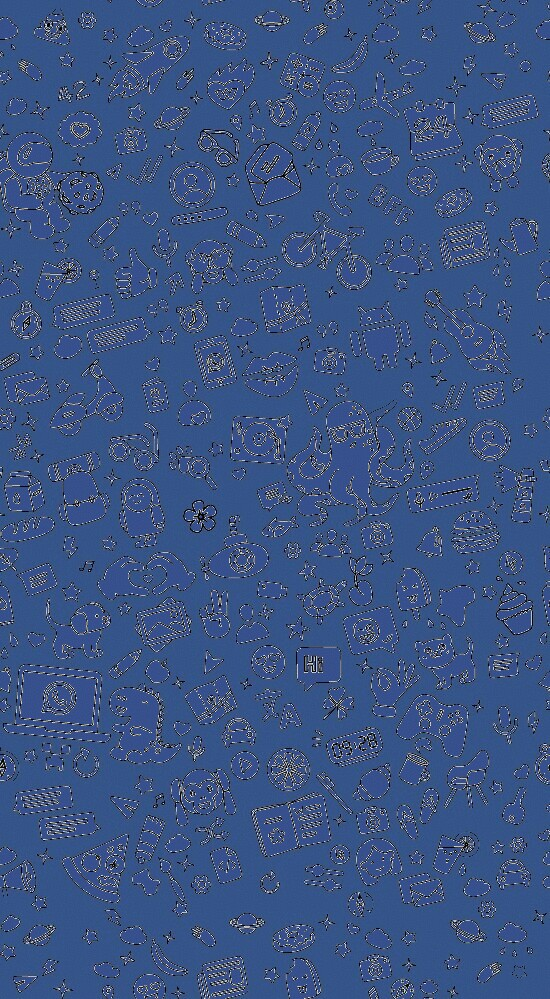
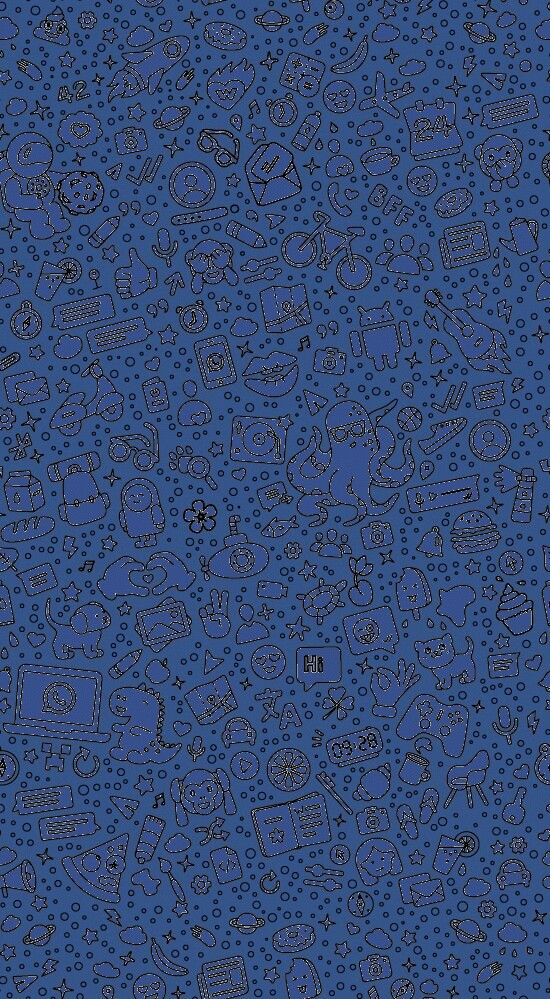
display images change

Changed region(s): [[0.0, 0.0, 1.0, 1.0], [0.9891, 0.0, 1.0, 0.031]]

diff --git a/server.js b/server.js
@@ -228,19 +228,12 @@ io.on('connection', function(socket) {
             const verifyUser = jwt.verify(token,process.env.SECRET_KEY);
             
             activeusers.forEach((element,index) => {
-                // console.log(roomdata)
                 if(verifyUser._id == element.id){
-                    activeusers.splice(index,1);
-                    user_sockets.splice(index,1);
+                    user_sockets[index] = socket
                     console.log(roomdata)
-                    roomdata[0].roomusers.forEach((elem,ind)=>{
-                        if(elem.id == verifyUser._id){
-                            roomdata[0].roomusers.splice(ind,1)
-                        }
-                    })
                     roomdata[0].userssockets.forEach((elem,ind)=>{
                         if(elem.id == verifyUser._id){
-                            roomdata[0].userssockets.splice(ind,1)
+                            roomdata[0].userssockets[ind] = socket.id;
                         }
                     })
                 }

diff --git a/static/main.css b/static/main.css
@@ -968,7 +968,6 @@ body {
     overflow-x: hidden;
     overflow-y: scroll;
     background-color: #AED8C7;
-    background-image: url("wallpapers/dbg3.jpg");
     background-size: auto 100%;
 }
 
